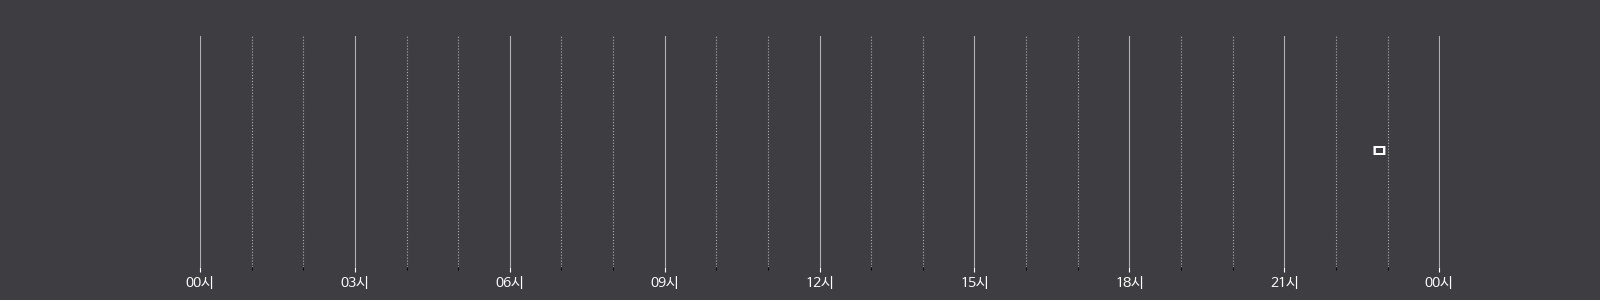
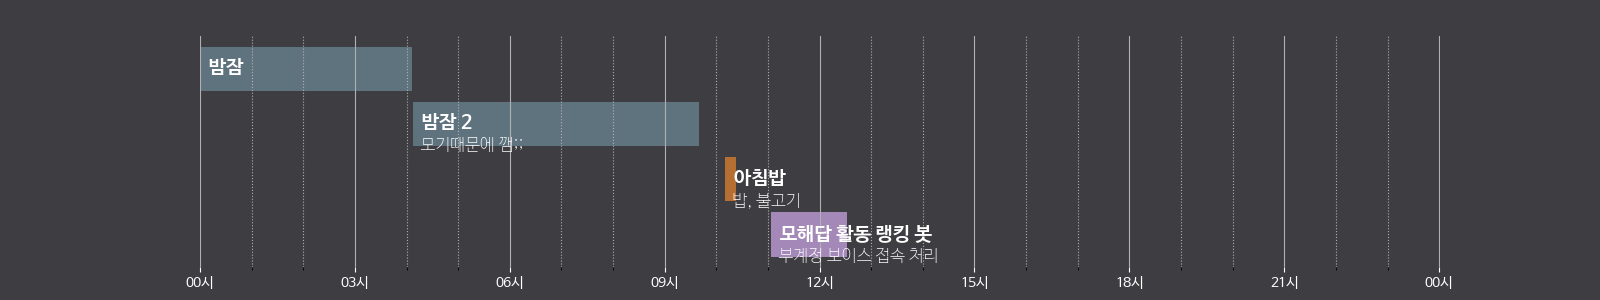
대시보드 새로고침 커맨드 추가

diff --git a/cogs/export_json.py b/cogs/export_json.py
@@ -1,7 +1,7 @@
 import discord, json
 from discord.ext.commands import Cog
 from typing import Literal
-from utils import genChart
+from utils import genChart, updateTimetable
 
 
 class ExportJsonCog( Cog ):
@@ -56,3 +56,11 @@ class ExportJsonCog( Cog ):
         genChart()
 
         await i.response.send_message( "JSON 초기화됨", ephemeral = True, delete_after = 10 )
+
+
+    @discord.app_commands.command( name = "새로고침", description = "대시보드를 새로고침한다" )
+    async def refreshDashboard( self, i: discord.Interaction ):
+        genChart()
+        await updateTimetable( i.client )   # type: ignore
+
+        await i.response.send_message( "대시보드 새로고침", ephemeral = True, delete_after = 10 )

diff --git a/bot/faust.py b/bot/faust.py
@@ -17,7 +17,7 @@ class Faust( Bot ):
         await self.add_cog( DailyReportCog( self ) )
         await self.add_cog( ExportJsonCog( self ) )
         await self.add_cog( PresenceListener( self ) )
-        await self.tree.sync()
+        # await self.tree.sync()
         print( "파우스트 온라인." )
 
 
